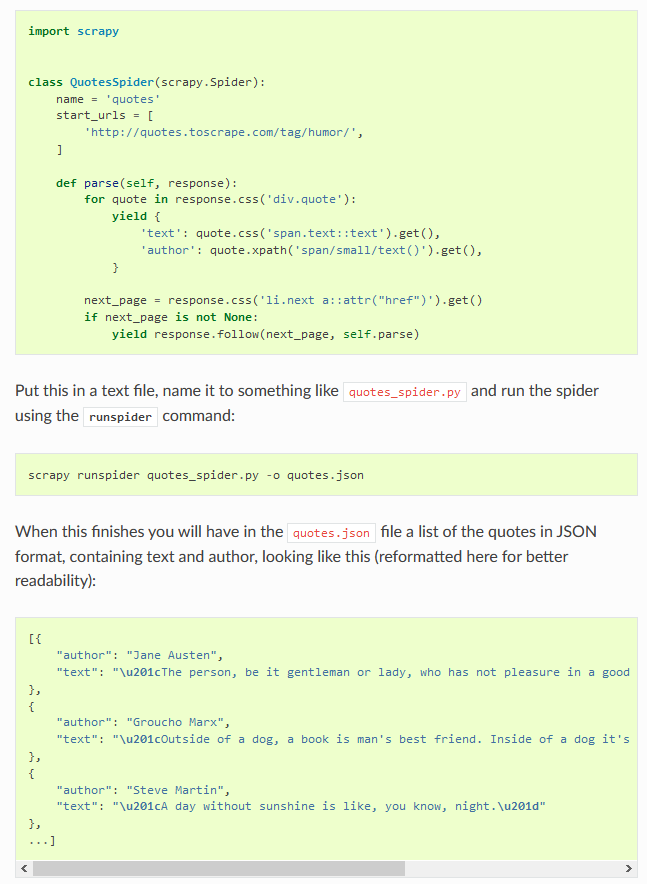
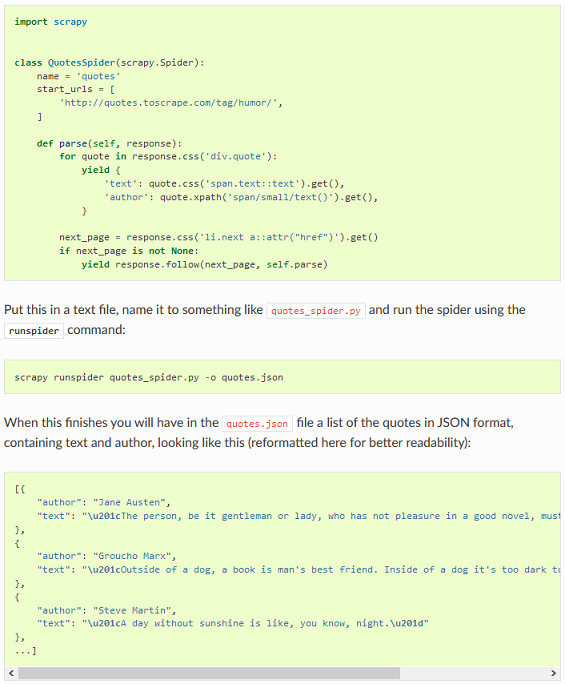
Changed some of the webpages

Changed region(s): [[0.0, 0.0, 0.9929, 1.0], [0.0602, 0.1842, 0.7221, 0.307], [0.0602, 0.8904, 0.8425, 0.9211]]

diff --git a/Test12/WebContent/part1.html b/Test12/WebContent/part1.html
@@ -15,39 +15,40 @@
     <h1 class="centered-text"><strong>Introduction and Problem Definition</strong></h1>
     <h3>What is Webmining</h3>
     <p class="tab">
-    Most people are familiar with the concept of data mining. Two types of people do data mining in our popular consciousness- social media companies like Facebook or Twitter use it to examine your metadata (location, browser, etc) on 
-	your posts and profiles as well as link that metadata to the information that you personally publish in your posts. They link this metadata with your publicized information to create a pretty cohesive profile of you to target ads to you. 
-	Hackers, the more nefarious type of the two, might use that data to guess your passwords, track your location, break into your bank accounts and so on. So data mining very much has a sort of subversive reputation, its assumed that its being 
-	used to take advantage of us or invade our privacy. But it's important to recognize that there are subsets of data mining that focus on mining particular parts of the wide swath of data available on the Internet, types that are a fair bit less subversive.
+    Most people are familiar with the concept of data mining through popular culture. Two types of people do data mining in our popular consciousness- social media companies like Facebook or Twitter use it to collect various things- the metadata 
+    of your browser, the posts you make, the profiles that you might visit most, etc. They link together all of these different sources of information with other publicized data about you to create a pretty cohesive profile of you to target ads to you. 
+	Hackers, the more nefarious type of the two, might use that data to guess your passwords, track your location, break into your bank accounts and other dastardly things. So data mining very much has a sort of subversive reputation, its assumed that its being 
+	used to take advantage of us or invade our privacy. But sprouting from this subversive core is a subset of data mining that is not interested in <i>exploiting you for some gain</i> but rather exploring other aspects of the Internet in a much more benign way.
     </p>
 	
 	<p class="tab">
-	Web mining is  one of these types: its goal is not necessarily to exploit users, but rather to mine websites themselves and examine their patterns- good ol' fashioned 'looking under the hood'. Like data mining, web mining accomplishes its goal of pattern recognition 
-	by using automated programs to extract particular data from webpages like browser activities, server logs, website and link structure, page content, among others. The purpose of this data extraction is to analyze it, discovering the aforementioned patterns. 
-	Its commercial use is to examine successful website design and diagnose what makes that website so good at user engagement. A web mining company can figure out what designs attract the most users and most engagement and sell this data to companies looking 
-	to improve their websites. Though web mining is a subcategory of data mining, it itself has its own subcategories.
+	<b>Web mining</b> is  one of these types: its goal is not necessarily to acquire user information, but rather to mine websites themselves and examine their patterns- good ol' fashioned 'looking under the hood'. Like data mining, web mining accomplishes its goal of 
+	pattern recognition by using automated programs to extract particular data from webpages like browser activities, server logs, website and link structure, page content, among others. The purpose of this data extraction is to analyze it, discovering the aforementioned
+	patterns. Its commercial use is to examine a given website design and diagnose what that website might be lacking or exceeding in relative to patterns in successful websites. A web mining company can figure out what designs attract the most users and most engagement 
+	and sell this data to companies looking to improve their websites. Though web mining is a subcategory of data mining, it itself has its own subcategories.
 	</p>
 	
     <h3>Categories Of Webmining</h3>
+    <div class="left">
+    <figure style="text-align: left">
+        <img src="webminingtypes.png" width="253px"/>        
+    </figure>   
+    </div>
     <p class="tab">
-	Web mining can be split into three separate categories- web content mining, web structure mining, and web usage mining. Web content mining focuses on the structure of the inner-document details of a webpage, ie the particular peculiarities that separate a 
-	particular webpage from the more broad, barebones schema that it derives from. Web structure mining is focused on the inter-document structure of a webpage, referring to its hyperlink structure, ie the way in which the web page displays routing to other pages 
-	to users and how that's formatted in the code. Lastly, web usage mining covers which aspects of the webpage are generating the most interest from users. This type of web mining is the one that most resembles our popular conception of data mining and is the most 
-	sought after type commercially- there's not as much money in the other two as there is in finding out what web design types keep people clicking. For our project in particular, we're covering web content mining out of all of these categories because it's the most 
-	practical of the three types discussed - it focuses on interpreting and categorizing useful distinct data found on each website.
+	Web mining can be split into three separate categories- web content mining, web structure mining, and web usage mining. <b>Web content mining</b> focuses on extracting useful information from standard web page contents. <b>Web structure mining</b> is focused on 
+	examining the hyperlink structure of a page to find interesting patterns in the routing of the page. Lastly, <b>web usage mining</b> covers user access patterns within a webpage. This type of web mining is the one that most resembles our popular conception of data mining 
+	and is the most sought after type commercially- there's not as much money in the other two as there is in finding out what web design types keep people clicking. For our project in particular, we're covering web content mining out of all of these categories because 
+	it's the type that most relates to the class topic of Web Design - it focuses on interpreting and categorizing useful distinct data found on each website.
     </p>
 	
 	<h3>Categories of Web Content Mining</h3>
 	<p class="tab">
-	In web content mining, there's a couple ways you can do things. What we define as <i>useful</i> data at the end of the previous paragraph depends on the context- what are you looking for exactly? This is where two points of view within the web content mining appear
-	to describe different useful contexts. Firstly, there's the information retrieval view, which focuses on categorizing webpages by parsing the text of a webpage and using statistics/machine learning to determine the information of a page based on the words, phrases, 
-	and concepts contained in that parsed text. Information retrieval extracts rules and patterns to categorize on the page using past examined data. On the other hand, the database retrieval view keeps track of the relations between hyperlinks on the page in order 
-	to transform the page into a database. This particualr view is focused on information management- how does the website organize all of its information and in what links is each piece of information organized?
+	Web content mining itself is further differentiated by two popular points of view. What we define as <i>useful</i> data at the end of the previous paragraph depends on the context- what are you, the user, looking for exactly? This is where two points of view 
+	within web content mining appear to describe different useful contexts. Firstly, there's the <b>information retrieval view</b>, which sees webpages as one big textfile to parse. The IR view utilizes statistics/machine learning to categorize the information 
+	of a page based on the words, phrases, and concepts contained in that parsed text. On the other hand, the <b>database retrieval view</b> conceives of the webpage as a database and uses proprietary algorithms and association rules to understand the data it uncovers. 
+	Rather than trying to categorize a webpage like IR does, DBR is more interested in finding frequent sub structures of a webpage or discovering the underlying schema of a webpage. Both types belong to the same umbrella of web content mining, but their differences in  
+	how they view a webpage in the abstract and the types of methods they perform on it provide different results. Of these two points of view, we're focusing on the information retrieval type.
 	<p>
-	
-	<p class="tab">
-	Of these two views above, we're focusing on the information retrieval. So, to summarize, of web mining, we're focusing on web content mining, and of web content mining, we're focusing on information retrieval. Time examine major tools used to accomplish this particular
-	type of mining.
-	</p>
+
     </body>
     </html>

diff --git a/Test12/WebContent/part4.html b/Test12/WebContent/part4.html
@@ -9,31 +9,31 @@
 <body>
     <table style="width:100%">
         <tr>
-            <th><strong>Back:</strong> <a href="part3.html">Implementation Of Web Content Mining</a></th><th><strong>Up:</strong> <a href="First.html">Index</a></th><th><strong>Next:</strong><a href="part5.html">Companies Using Content Mining</a></th>
+            <th><strong>Back:</strong> <a href="part3.html">Implementation Of Web Content Mining</a></th><th><strong>Up:</strong> <a href="First.html">Index</a></th><th><strong>Next:</strong> <a href="part5.html">Companies Using Content Mining</a></th>
         </tr>
     </table>
     <h1 class="centered-text"><strong>Content Extraction Algorithm</strong></h1>
     <p class="tab">
-    One of the method for content extraction is segmenting the Webpage into blocks.Most Web pages on the Internet are still written in HTML.The layouts of these SGML documents follow the Document Object Model tree structure of the World Wide Web Consortium.
-    ContentExtractor computes the Inverse Block Document Frequency (IBDF) which is defined as: If a block appears in multiple Web pages the block will have a smaller Inverse Block Document Frequency (IBDF) than one that appears only in one Web page.
+    One of the methods for content extraction is segmenting the webpage into blocks. Most webpages on the Internet are still written in HTML. The layouts of these SGML documents (of which HTML sans HTML5 is a part of) follow the Document Object Model tree structure of the World Wide Web Consortium.
+    ContentExtractor computes the Inverse Block Document Frequency (IBDF) which is defined as: If a block appears in multiple webpages the block will have a smaller Inverse Block Document Frequency (IBDF) than one that appears only in one webpage.
     </p>
     <p class="tab">
     Below is a breakdown of the steps done in Content Extraction:
     </p>
     <h3>Algorithm</h3>
     <p class="tab">
-   The input to the algorithms is a set (at least two) of Webpages belonging to a class of Web pages. A class is defined as a set of Web pages from the same Web site whose
-designs or structural contents are very similar.The output of the algorithms are the primary content blocks in the given class of Web pages.
+   The input to the algorithms is a set of (at least two) webpages belonging to a class of webpages. A class is defined as a set of webpages from the same website whose
+designs or structural contents are very similar. The output of the algorithms are the primary content blocks in the given class of webpages.
     </p>
     <h3>GetBlockSet</h3>
     <p class="tab">
-   The first step of all our algorithms is to use the GetBlockSet routine to partition each page into blocks.The GetBlockSet routine takes an HTML page as input with the ordered tag-set.GetBlockSet takes a tag from the tag-set one by one and calls the GetBlocks routine for each block belonging to the set of blocks, already generated. New sub blocks created by GetBlocks are added to the block set and the generating main
-block (which was just partitioned) is removed from the set.
+   The first step of all our algorithms is to use the GetBlockSet routine to partition each page into blocks. What we mean by 'block' here is any code that exists between two tags- take the 'tr' and '/tr' tags for example. Anything within the 'tr' and '/tr' tags will be sub-blocks the block that is labelled 'tr'. And of course, instances of 'tr' itself will be sub-blocks of 'table', and 'table' will be a sub-block of 'html'. The GetBlockSet routine takes an HTML page and an ordered tag-set that applies to said HTML page as input into its routine. GetBlockSet takes a tag from the tag-set one by one and calls the GetBlocks routine for each block of code that uses that tag. New sub blocks created by GetBlocks are added to the block set and the generating main
+block is removed from the set.
    </p>
     <h3>GetBlocks</h3>
     <p class="tab">
-   GetBlocks takes a full document or a part of a document,written in HTML, and a tag as its input. It partitions the document into blocks according to the input tag. For example, in case of the 'TABLE' tag given as input, it will produce the DOM tree with all the table blocks.It does a breadth-first search of the DOM tree (if any) of the HTML page. If the input tag is TABLE and there is no table structure available in the HTML page, it does not partition
-the page. In that case, the whole input page comes back as a single block. In case of other tags such as'P', it partitions the page/block into blocks/subblocks separated by those tags. The below figure shows the structure of two HTML pages. It also shows the blocks that our blocking algorithm identifies for each of these pages.
+   GetBlocks takes a full document or a part of a document, written in HTML, and a tag as its input. It partitions the document into blocks according to the input tag. For example, in case of the 'TABLE' tag given as input, it will produce the DOM tree with all the table blocks. It does a breadth-first search of the DOM tree (if any) of the HTML page. If the input tag is TABLE and there is no table structure available in the HTML page, it does not partition
+the page. In that case, the whole input page comes back as a single block. In case of other tags such as 'p', it partitions the page/block into blocks/sub-blocks separated by those tags. The below figure shows the structure of two HTML pages. It also shows the blocks that our blocking algorithm identifies for each of these pages.
    </p>
     <div class="center">
         <figure style="text-align: center">
@@ -43,7 +43,7 @@ the page. In that case, the whole input page comes back as a single block. In ca
     </div>
    <h3>Identifying Primary Content Blocks</h3>
     <p class="tab">
-   After the blocks have been identified, the second step of the process involves identifying the primary content blocks and separating them from the noncontent blocks.
+   After the blocks have been identified, the second step of the process involves identifying the primary content blocks and separating them from the non-content blocks.
    </p>
    <h3>Pseudocode for ContentExtractor</h3>
     <div class="center">
@@ -53,10 +53,7 @@ the page. In that case, the whole input page comes back as a single block. In ca
         </figure>    
     </div> 
      <h3>Similarity Function</h3>
-    <p class="tab">
-   After the blocks have been identified, the second step of the process involves identifying the primary content blocks and separating them from the noncontent blocks.
-   </p>
-   Given two blocks, Sim returns the cosine between their block feature vectors.We used a threshold value i.e, if the similarity measure is greater than the threshold value, then the two blocks are accepted as identical. The threshold value can be changed according to the needs of the application and affects the precision and recall of the algorithm.
+   Given two blocks, Sim returns the cosine between their block feature vectors. We use a threshold value to determine similarity; i.e, if the similarity measure is greater than the threshold value, then the two blocks are accepted as identical. The threshold value can be changed according to the needs of the application and affects the precision and recall of the algorithm.
     <div class="center">
         <figure style="text-align: center">
                 <img src="Similarity_Algorithm.jpg" width="500px"/>

diff --git a/Test12/WebContent/part2.html b/Test12/WebContent/part2.html
@@ -1,6 +1,6 @@
 <html>
 <head>
-    <title>Introduction to Web Content Mining</title>
+    <title>Tools Used for Web Content Mining</title>
       <link rel="stylesheet" href="style.css">
     <style>
         
@@ -16,27 +16,29 @@
     <h3>Overview of Tools</h3>
     <p class="tab">
 	In the field of web content mining, the types of software you can use to accomplish the scraping and examination vary in their type- there are scripting languages built from the ground up to serve the purpose of web content mining, modules
-	for existing languages that implement scraping capabilitiy, there are all-in-one GUI interfaces built in a different language to accomplish the same goal, and of course there are command line programs that are less elegant visually that also 
+	for existing languages that implement scraping capability, there are all-in-one GUI interfaces built in a different language to accomplish the same goal, and of course there are command line programs that are less elegant visually that also 
 	accomplish this goal. 
 	</p>
 
 	<h3>Scrapy</h3>
-	<div class="center">
-    <figure style="text-align: center">
+	<div class="left">
+    <figure style="text-align: left">
         <img src="scrapy.png" width="300px"/>
-        <figcaption style="text-align: center">Scrapy logo</figcaption>
+        <figcaption style="text-align: left">Scrapy logo</figcaption>
     </figure>   
+    </div>
 	<p class="tab">
 	The most popular tool to use for web content mining (and scraping in general more broadly) is appropriately named Scrapy. Scrapy is an open-source package for Python. It bills itself as "an application framework for crawling 
 	web sites and extracting structured data which can be used for a wide range of useful applications, like data mining, information processing or historical archival." How Scrapy works is simple- implementing scrapers that it 
-	calls <i>spiders</i>- though it might sound creepy, it's really just a python file that you point in the direction of the URL you'd like to scrape and define within its parse function what sort of data you want from the URL. 
-	Below, there's a screenshot showing an example spider, the command to run it, and its output.
+	calls <i>spiders</i>- though the name might sound creepy, a spider is really just a python file that you point in the direction of the URL you'd like to scrape and define within its parse function what sort of data you want 
+	from the URL. Below, there's a screenshot showing an example spider, the command to run it, and its output.
 	</p>
-    <figure style="text-align: center">
-        <img src="example.png" width="884px"/>
-        <figcaption style="text-align: center">Example scraper</figcaption>
+	<div class="left">
+    <figure style="text-align: left">
+        <img src="example.png" width="684px"/>
+        <figcaption style="text-align: left">Example scraper</figcaption>
     </figure>   
-	
+    </div>
 	<p class="tab">
 	In short, define the URL to scrape in the start_urls[] array, define the attributes to scrape in the prase() function, add in some handling for if there's a following page after the URL, run it in your command line, and voila,
 	you have in your hands a JSON file that has scraped the data you're interested in far faster than you can do by hand. Scrapy can handle CSS identifiers as shown here, but it can also target specific elements of a webpage via 
@@ -44,10 +46,12 @@
 	</p>
 	
 	<h3>Octoparse</h3>
-	<figure style="text-align: center">
+	<div class="left">
+	<figure style="text-align: left">
         <img src="octoparse.png" width="300px"/>
-        <figcaption style="text-align: center">Octoparse logo</figcaption>
+        <figcaption style="text-align: left">Octoparse logo</figcaption>
     </figure>   
+    </div>
 	<p class="tab">
 	The other big tool is Octoparse, Octoparse is a GUI type of scraper that is <i>proprietary</i> (BOOOOO!). It's got free and paid versions. Since it's closed source, we can't really describe <i>how</i> exactly it works under
 	the hood, but on the user side, it goes like this- you input a website to scrape, and Octoparse will extract and order its contents before exporting it in a database form of your choice. It automatically groups information 
@@ -63,11 +67,12 @@
 	borrows Scrapy's spider code schema exactly (the meat of Scrapy in other words) but adds on top of the existing Scrapy spider a nice visualization layer of the output. Perfect! Below you can see a screenshot of what
 	exactly this visualization element looks like- Portia is a lot more user friendly in this way than Scrapy is. 
 	</p>
-	<figure style="text-align: center">
-        <img src="portia-follow-patterns.png" width="765px"/>
-        <figcaption style="text-align: center">Example visualization</figcaption>
+	<div class="left">
+	<figure style="text-align: left">
+        <img src="portia-follow-patterns.png" width="1529px"/>
+        <figcaption style="text-align: left">Example visualization. Neatly displays site to be crawled, rules of the crawler, regular expression arguments.</figcaption>
     </figure>   
-	
+	</div>
 	<p class="tab">
-	We chose Portia as our demonstation tool for this project on account of its presentation value and its use of Scrapy's spiders as its scraper. We'll expand on Portia and the intricacies of web content mining going forward.
+	We chose Portia as our demonstration tool for this project on account of its presentation value and its use of the popular tool Scrapy's spiders. We'll expand on Portia and the intricacies of web content mining going forward.
 	</p>

diff --git a/Test12/WebContent/part3.html b/Test12/WebContent/part3.html
@@ -15,11 +15,15 @@
     <h1 class="centered-text"><strong>Implementation of Web Content Mining</strong></h1>
     <h3>1)  Scraping</h3>
     <p class="tab">
-        The first step of web content mining is web scraping: getting the information that we need from a web page. Scraping is simultaneously the most important and most straightforward part of web content mining. It requires the application to determine what is important and what is not; in other words, which features it will need to extract for later classification.  This can be done manually if one knows the layout of the sites beforehand: the developer only needs to specify what elements should be extracted, through their appropriate CSS, XPath elements, or other identifier.  For more advanced applications, or applications where the layout of the site is not known, type of machine learning called “wrapper induction” to determine which features to extract. Wrapper induction uses supervised learning to generate a list of rules that cover all of the features we are looking for without covering anything else.  There is also an alternative to wrapper induction called automatic feature extraction, which generates a wrapper from a sample page and refining it across multiple pages as mismatches arise.  However, AFE carries a high computational cost (exponential time) and has several problems, including difficulty in generating attribute names and needing integration if extracting data from multiple sites.  In any case, we figure out the wrapper and feed it to the scraper to extract the features we want.
+        The first step of web content mining is web scraping: getting the information that we need from a web page. Scraping is simultaneously the most important and most straightforward part of web content mining. It requires the application to determine what is important and what is not; in other words, which features it will need to extract for later classification.  
+        This can be done manually if one knows the layout of the sites beforehand: the developer only needs to specify what elements should be extracted, through their appropriate CSS, XPath elements, or other identifier. For more advanced applications, or applications where the layout of the site is not known, we need to generate what is called a <i>wrapper</i> that 
+        evaluates a website and determines what features should be extracted based on our rules. We can use a type of machine learning called <b>wrapper induction</b> to determine which features to extract. Wrapper induction uses supervised learning to generate a list of rules from a webpage that cover all of the features we are looking for without covering anything else. 
+        There is also an alternative to wrapper induction called <b>automatic feature extraction</b>, which generates a wrapper from a sample page and refining this default wrapper across multiple pages as mismatches arise. However, AFE carries a high computational cost (exponential time) and has several problems, including difficulty in generating attribute names and 
+        needing integration if extracting data from multiple sites. Regardless, you can use either method to figure out the wrapper and feed it to the scraper to extract the features we want.
     </p>
     
     <p class="tab">
-        For our application, we used the scraping tool known as Portia, which provides a GUI interface through which to use Scrapy.  We simply select the kinds of elements that we wish to extract, and Portia will automatically extract them based on their HTML/CSS tag.  A demo is shown below.
+        As discussed in the previous page, we're using Portia as our demo tool, which provides a GUI interface through which to use Scrapy.  We simply select the kinds of elements that we wish to extract, and Portia will automatically extract them based on their HTML/CSS tag.  A demo is shown below.
     </p>
     <div class="center">
         <video width="500" height="300" controls>
@@ -39,7 +43,7 @@
         </figure>    
     </div> 
     <p class="tab">
-        Another simple implementation for our application would be to convert the JSON lines output file to SQL or another database language, with a tool such as SQLizer.  This would allow us to perform more complex queries on the data set.  Once again, it all depends on the application.
+        Another simple implementation for our application would be to convert the JSON lines output file to SQL or another database language, with a tool such as SQLizer.  This would allow us to perform more complex queries on the data set. Web content mining is pretty open ended- you can do what you'd like with the data, it all depends on your own goals.
     </p>
     </body>
     </html>

diff --git a/Test12/WebContent/First.html b/Test12/WebContent/First.html
@@ -9,20 +9,12 @@
 </head>
 <body>
     <h1 class="centered-text"><strong>Web Content Mining</strong></h1>
-    <h2><strong>Group 1(Raymond Muller, Vennela Vysyaraju, and Parker Gray)
-    </strong></h2>
+    <h2><strong>Group 1 (Raymond Muller, Vennela Vysyaraju, and Parker Gray)</strong></h2>
     
     <p class="tab">
-    Web Content Mining is the extraction and analysis of "useful" data contained in a webpage.  What is considered "useful" depends on the application.There are two prevailing points of view in web content mining: the information retrieval view (IR) and Database View (DB).We will focus on the Information Retrieval aspect of Web Content Mining.The Information Retrieval view focuses on categorizing webpages by looking at the text of a webpage and using statistics and machine learning to determine the information of a page based on the words, phrases, and concepts contained therein.  IR extracts rules and patterns in order to categorize the page. 
-     
+	Web content mining is a type of data mining mining that aims to extract useful information from the contents of webpages. This type of mining utilizes webscrapers which are used to comb through a webpage and find relevant data to whatever query the user might input. This tutorial will explain Web content mining in more detail and its useful applications in the world.
     </p>
-    
-    <div class="center">
-        <figure style="text-align: center">
-                <img src="web.jpg" width="500px"/>
-                </figure>
-                </div>
-    
+
     <h3><strong>TABLE OF CONTENTS</strong></h3>
 <ol>
     <li><a href="part1.html"><font size="4">Introduction and Problem Definition</font></a></li>
